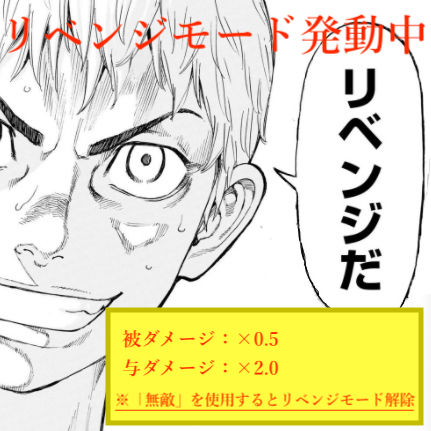
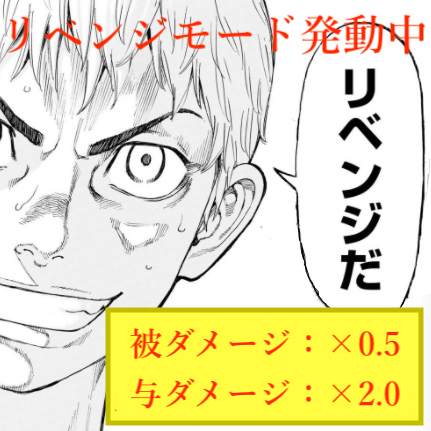
edit: 覚醒時のUI改善

Changed region(s): [[0.2715, 0.7541, 0.9652, 0.9652], [0.7541, 0.7541, 0.935, 0.8445], [0.6937, 0.7541, 0.7239, 0.8144]]

diff --git a/script/script.js b/script/script.js
@@ -68,11 +68,15 @@ class Player extends Charactor {
   awaken(){
     this.isAwakening = true;
     this.loseLife = 0.5;
+    if(stage != coms.length){
+      caution.style.display = 'block';
+    }
   }
 
   cancelAwaken(){
     this.isAwakening = false;
     this.loseLife = 1;
+    caution.style.display = 'none';
   }
 
   canAwaken(){
@@ -779,6 +783,7 @@ const scissors = document.getElementById('scissors');
 const muteki = document.getElementById('muteki');
 const startGameButton = document.getElementById('startGame');
 const bgmButton = document.getElementById('bgm-button');
+const caution = document.getElementById('caution');
 
 function selectRock(){
   return new Promise(resolve => {

diff --git a/index.html b/index.html
@@ -113,6 +113,7 @@
             <div id="muteki" class="col"><i class="fas fa-hand-muteki"><img src="assets/muteki.png"/></i><br><span style="color: #007500;">無敵</span></div>
           </div>
         </div>
+        <p class="text-right" id="caution">※「無敵」を選択すると【リベンジモード】は解除されてしまいます。</p>
         <!-- Modal -->
         <div class="modal fade" id="rule-modal" tabindex="-1" role="dialog" aria-labelledby="rule-modalTitle" aria-hidden="true">
             <div class="modal-dialog modal-dialog-centered" role="document">

diff --git a/style/style.css b/style/style.css
@@ -28,6 +28,11 @@
   display: none;
 }
 
+#caution {
+  display: none;
+  color: red;
+}
+
 #special-message {
   opacity: 0;
   transform: rotate( 8deg );
